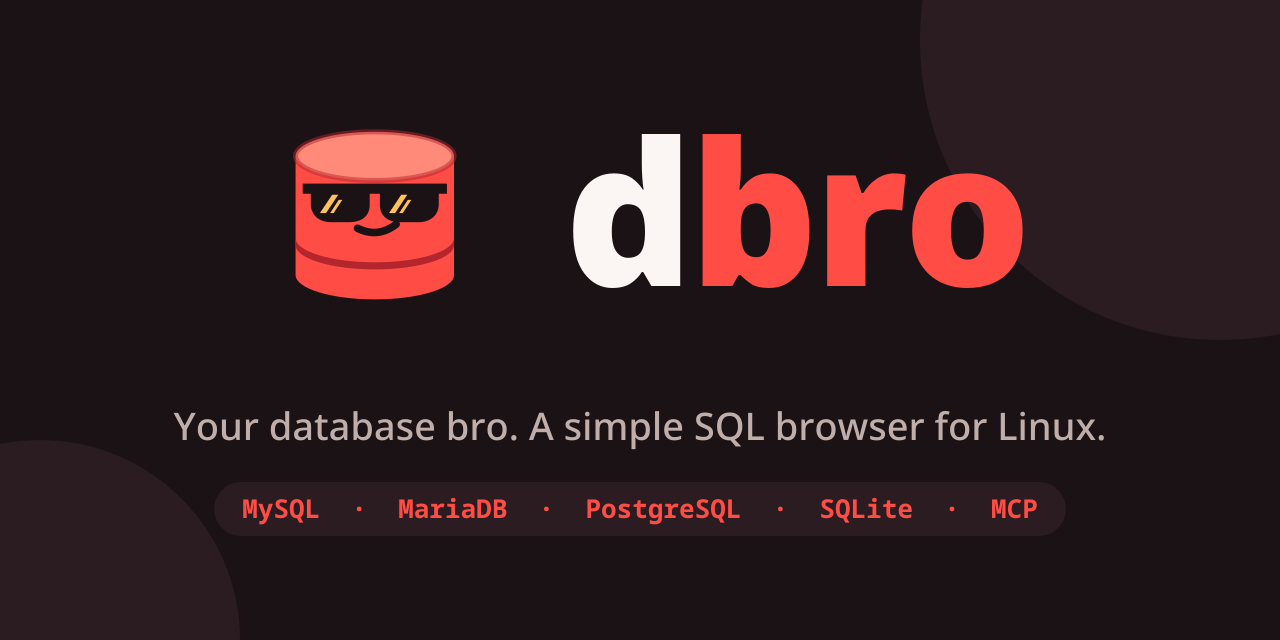
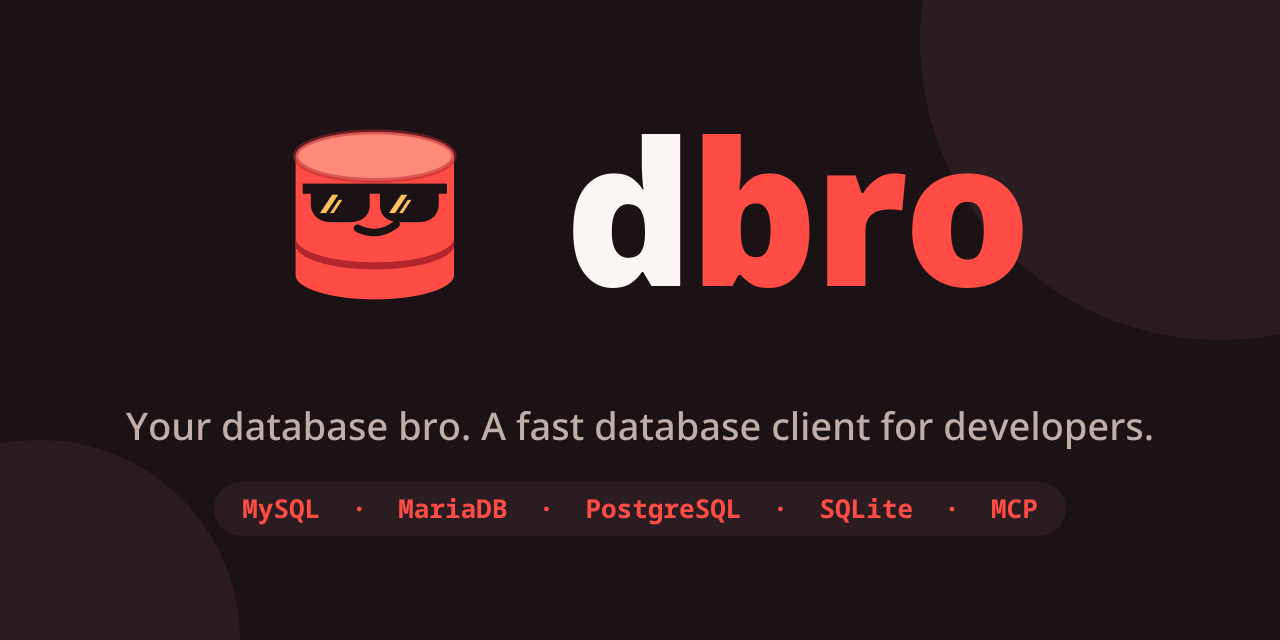
ci: test on Linux with MySQL and Postgres, release builds for Linux, macOS and Windows
Also builds on non-Linux (window size stub) and drops the Linux-only
wording from the README, CLI usage and artwork.

Changed region(s): [[0.0938, 0.625, 0.9062, 0.6875]]

diff --git a/assets/gen.py b/assets/gen.py
@@ -76,7 +76,7 @@ open(f"{OUT}/logo.svg", "w").write(svg(512, 512, mark(), "dbro logo"))
 # banner 1280x400, self-contained dark background
 W, H = 1280, 400
 wm, wmw = wordmark(0, 0, 168)
-tag, tagw = text(MED, "Your database bro. A simple SQL browser for Linux.", 0, 0, 34, MUTED)
+tag, tagw = text(MED, "Your database bro. A fast database client for developers.", 0, 0, 34, MUTED)
 ms, gap = 236, 56
 content_w = ms + gap + max(wmw, tagw)
 x0 = (W - content_w) / 2
@@ -86,12 +86,12 @@ banner = (f'<rect width="{W}" height="{H}" rx="28" fill="{INK}"/>'
           + placed_mark(x0, (H - ms) / 2, ms)
           + f'<g transform="translate({tx} 226)">{wm}</g>'
           + f'<g transform="translate({tx + 6} 292)">{tag}</g>')
-open(f"{OUT}/banner.svg", "w").write(svg(W, H, banner, "dbro: Your database bro. A simple SQL browser for Linux."))
+open(f"{OUT}/banner.svg", "w").write(svg(W, H, banner, "dbro: Your database bro. A fast database client for developers."))
 
 # social preview 1280x640
 W, H = 1280, 640
 wm, wmw = wordmark(0, 0, 200)
-tag, tagw = text(MED, "Your database bro. A simple SQL browser for Linux.", 0, 0, 38, MUTED)
+tag, tagw = text(MED, "Your database bro. A fast database client for developers.", 0, 0, 38, MUTED)
 chips_s = "MySQL  ·  MariaDB  ·  PostgreSQL  ·  SQLite  ·  MCP"
 chips, chipw = text(MONO, chips_s, 0, 0, 26, RED)
 ms, gap = 260, 60

diff --git a/main.go b/main.go
@@ -22,7 +22,7 @@ var icon []byte
 
 var version = "dev"
 
-const usage = `dbro: a simple SQL browser for Linux.
+const usage = `dbro: a fast database client for developers.
 
 Usage:
   dbro            open the app

diff --git a/winsize_other.go b/winsize_other.go
@@ -1,0 +1,6 @@
+//go:build !linux
+
+package main
+
+// unlockWindowSize is only needed for GTK on Linux.
+func unlockWindowSize() {}

diff --git a/README.md b/README.md
@@ -1,6 +1,6 @@
 <p align="center"><img src="assets/banner.svg" alt="dbro: your database bro" width="100%"></p>
 
-**dbro** is a fast, keyboard-friendly database client for developers on Linux. It talks to **MySQL, MariaDB, PostgreSQL and SQLite**, finds your local project databases by itself, follows your **Omarchy** theme, and ships an **MCP server** so your agents can work with the same databases you do.
+**dbro** is a fast, keyboard-friendly database client for developers, built for Linux and available for macOS and Windows too. It talks to **MySQL, MariaDB, PostgreSQL and SQLite**, finds your local project databases by itself, follows your **Omarchy** theme, and ships an **MCP server** so your agents can work with the same databases you do.
 
 ## Features
 
@@ -17,7 +17,22 @@
 
 ## Install
 
-Needs Go, Node, the Wails CLI and `webkit2gtk-4.1` (already on Omarchy).
+Download a build from [Releases](https://github.com/ExeQue/dbro/releases):
+
+- **Linux** (amd64, arm64): needs `webkit2gtk-4.1` (already on Omarchy). Unpack, then
+  ```sh
+  install -Dm755 dbro ~/.local/bin/dbro
+  install -Dm644 dbro.desktop ~/.local/share/applications/dbro.desktop
+  install -Dm644 dbro.png ~/.local/share/icons/hicolor/1024x1024/apps/dbro.png
+  ```
+- **macOS** (universal): move `dbro.app` to Applications. The build is not notarized, so clear the quarantine flag once: `xattr -dr com.apple.quarantine /Applications/dbro.app`.
+- **Windows** (amd64): run `dbro.exe`. It needs the WebView2 runtime (part of Windows 11). The build is not signed, so SmartScreen asks once.
+
+lerd and Omarchy integration only apply on Linux; everything else works on all three.
+
+### From source
+
+Needs Go, Node, the Wails CLI and, on Linux, `webkit2gtk-4.1`.
 
 ```sh
 go install github.com/wailsapp/wails/v2/cmd/wails@latest
